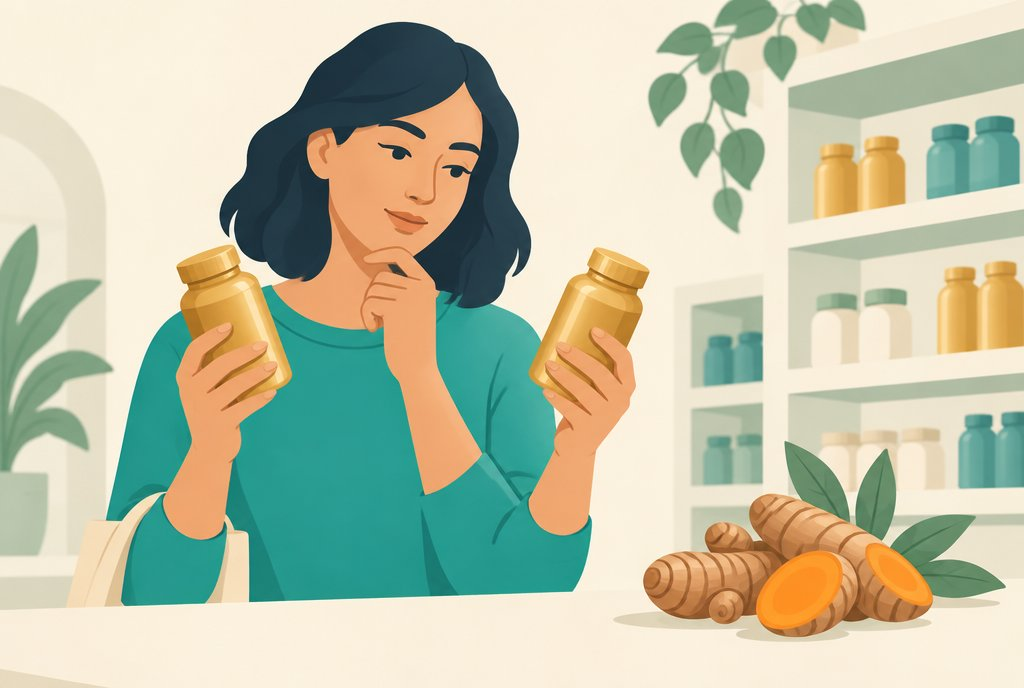
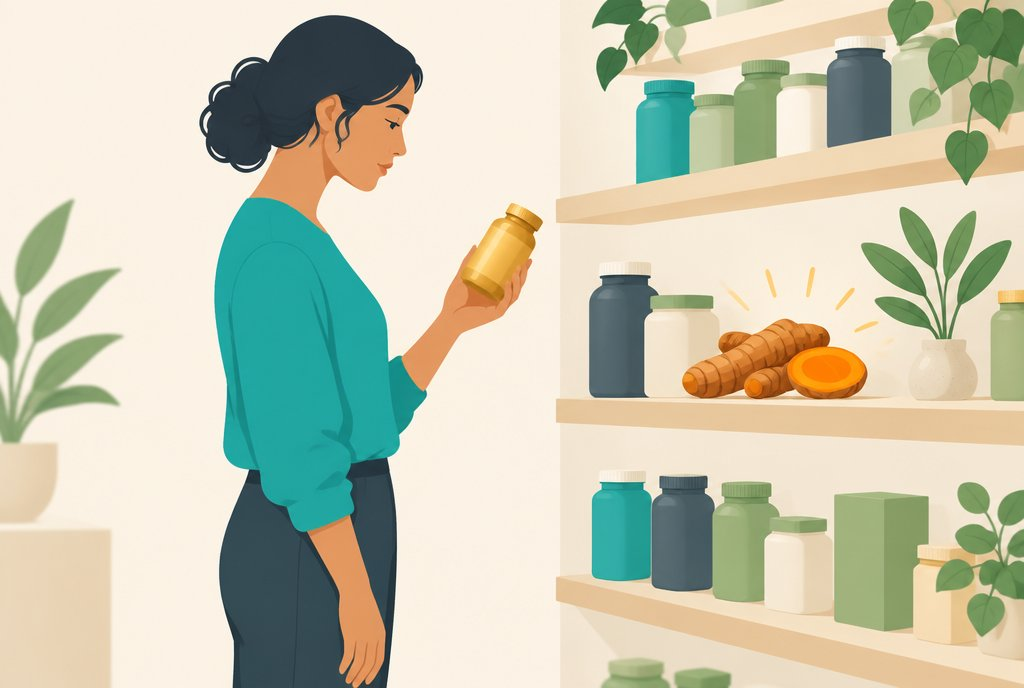
Fix three-armed figure in turmeric hero; add mandatory image QC rule
Regenerates the turmeric-curcumin-guide hero illustration, which shipped
with an anatomy defect (an extra arm), using a simplified one-bottle,
one-visible-hand pose. Adds a mandatory AI-illustration quality check to
CLAUDE.md: inspect every generated image for limb/hand anatomy errors,
merged objects, stray text, and artifacts before publishing, and
regenerate with a simpler pose on failure. Also documents the category
chip color scheme.

Claude-Session: https://claude.ai/code/session_01MaYhq6fUjP8R7eYAZ3SAfu

diff --git a/CLAUDE.md b/CLAUDE.md
@@ -8,9 +8,27 @@ edits are made directly to the built output.
 
 - **All blog posts must be a 5 minute read or less** (≤ ~1,000 words of
   visible text at 200 wpm; label the read time as `ceil(words / 200) min read`).
-- Categories: Deep Dives, Guides, Research Reviews, Nutrition Science.
+- Categories (each with its own chip color, applied via inline style):
+  Deep Dives (one nutrient/problem, teal `#0d9488`), Guides (goal/audience
+  roundups, blue `#2563eb`), Research Reviews (evidence verdicts and
+  head-to-head comparisons, magenta `#a21caf`), Nutrition Science (diet and
+  mechanism context, amber `#b45309`). Chip background = same hue at 0.1 alpha.
 - Cite real sources (NIH ODS, PubMed, major clinics); Amazon links use the
   `mammuthus-20` affiliate tag; include Take-the-Quiz CTAs linking `/quiz`.
+
+## AI illustration quality check (MANDATORY before publishing any image)
+
+Visually inspect every generated image at full size before it ships — a
+three-armed woman made it to production once. Check, deliberately:
+1. Human anatomy: count arms, hands, and legs; look for extra/missing limbs,
+   mangled hands or fingers, distorted or duplicated facial features.
+2. Objects merging into people or each other, floating disconnected parts.
+3. Any text, letters, numbers, or logo-like marks (images must contain none).
+4. Smearing or garbled regions.
+Regenerate failures (simplify the pose in the prompt — e.g. one object in one
+hand — rather than adding negative instructions) and re-inspect the
+replacement before converting and publishing. Prompts that pose people
+holding or comparing multiple objects are the highest-risk category.
 
 ## Adding or editing a blog post (built-output mechanics)
 
